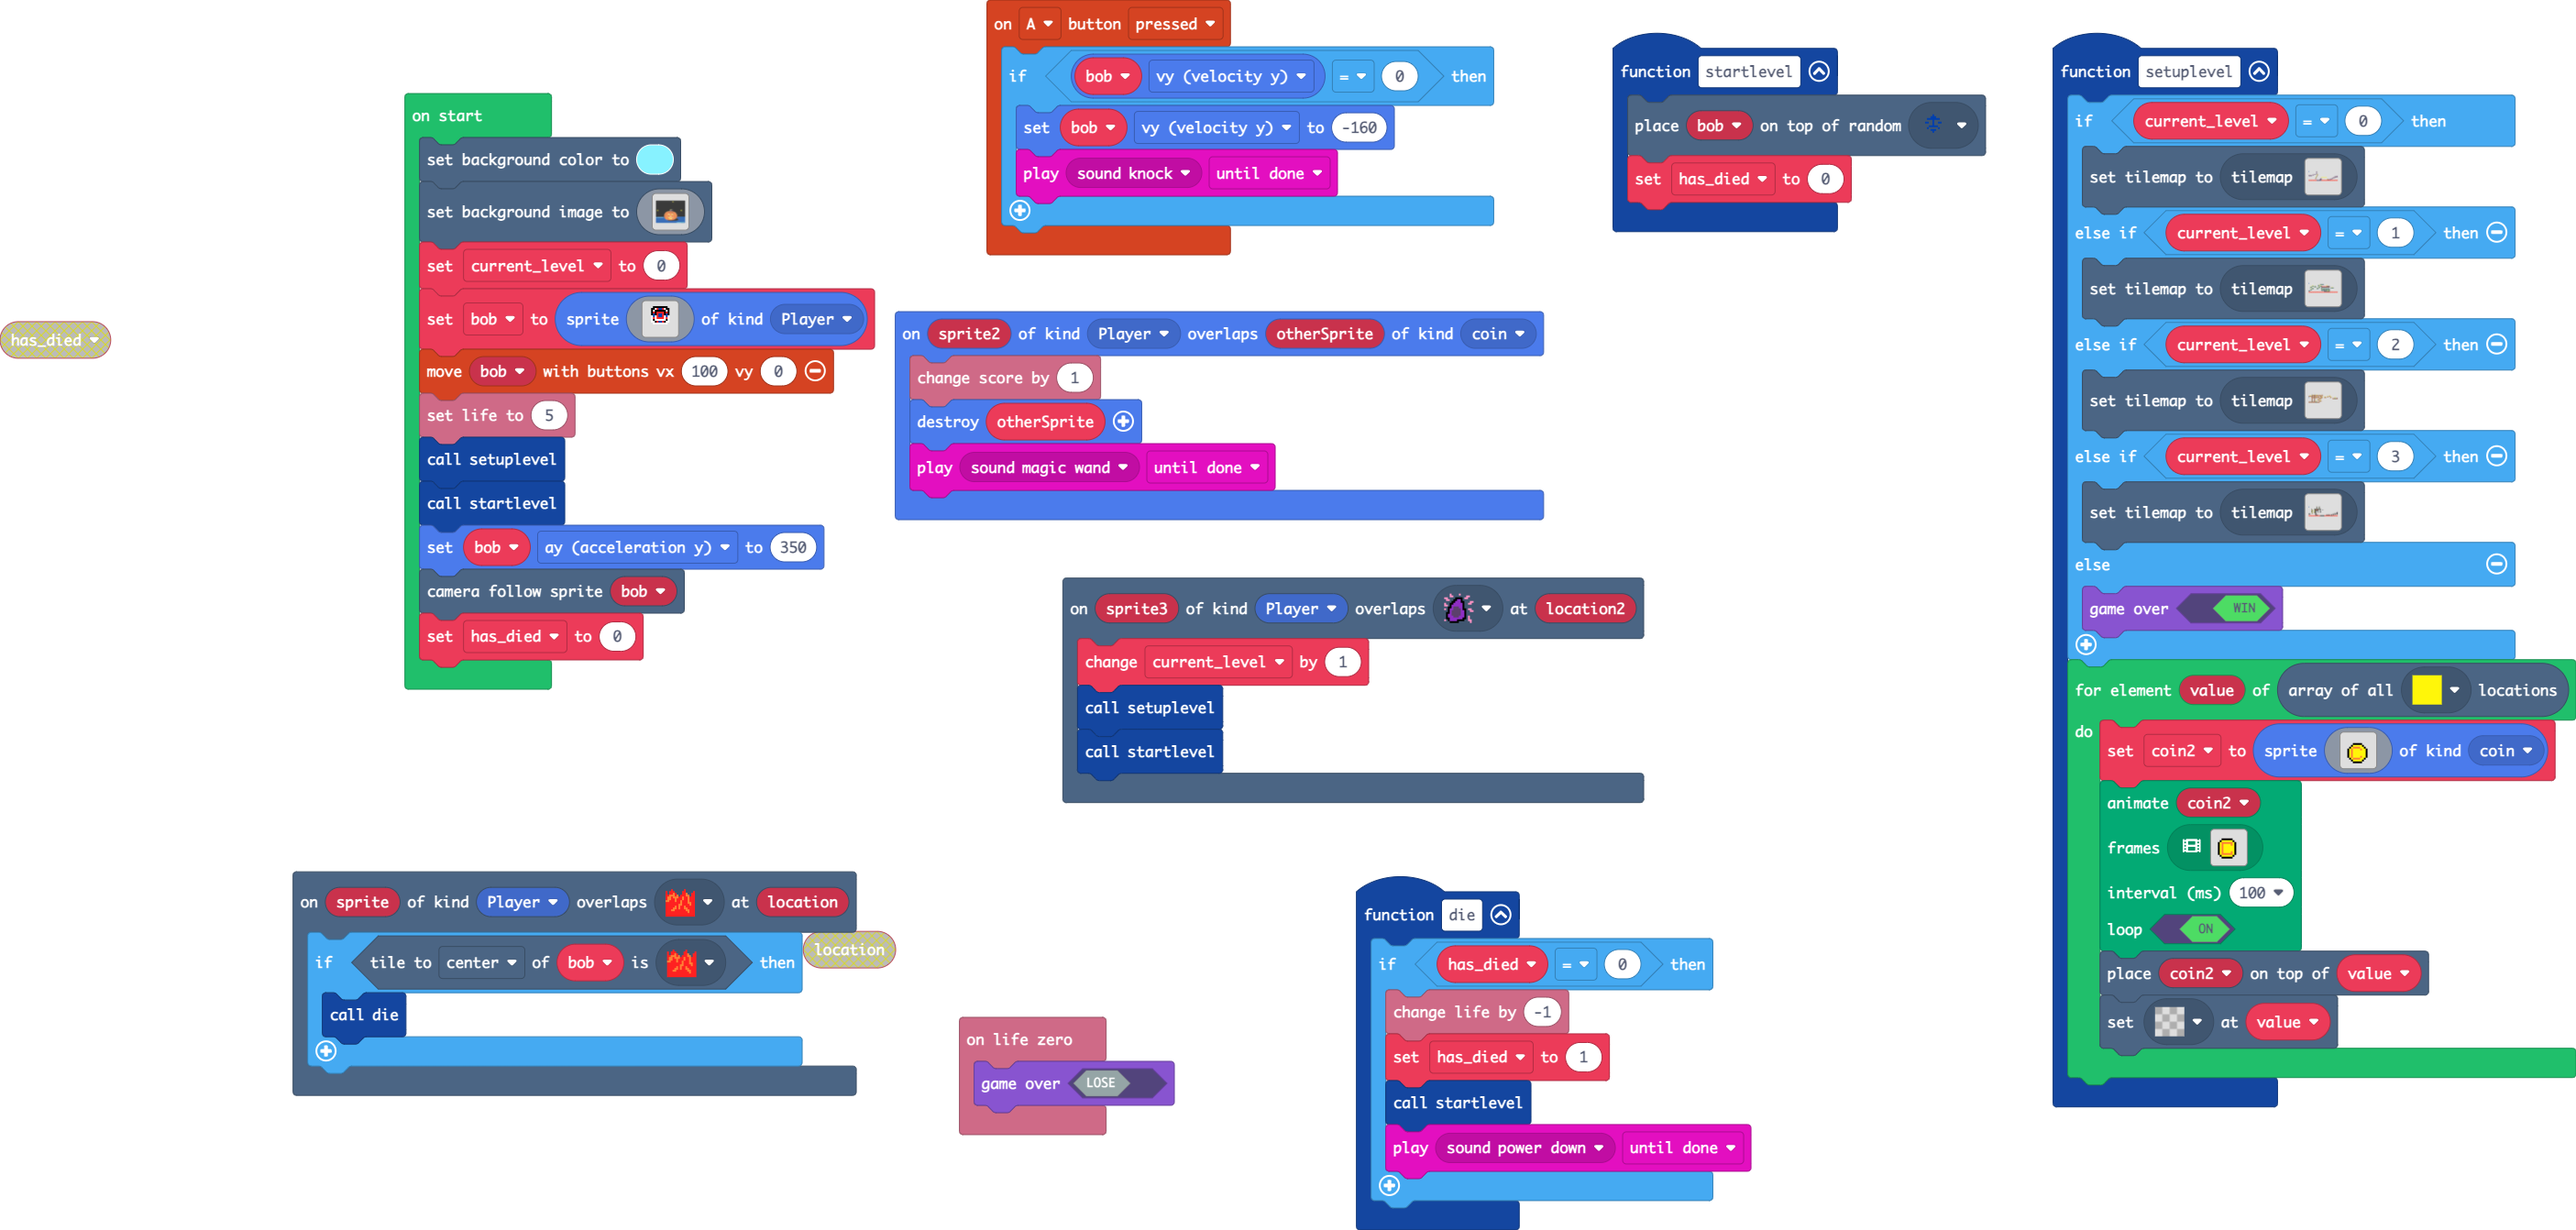
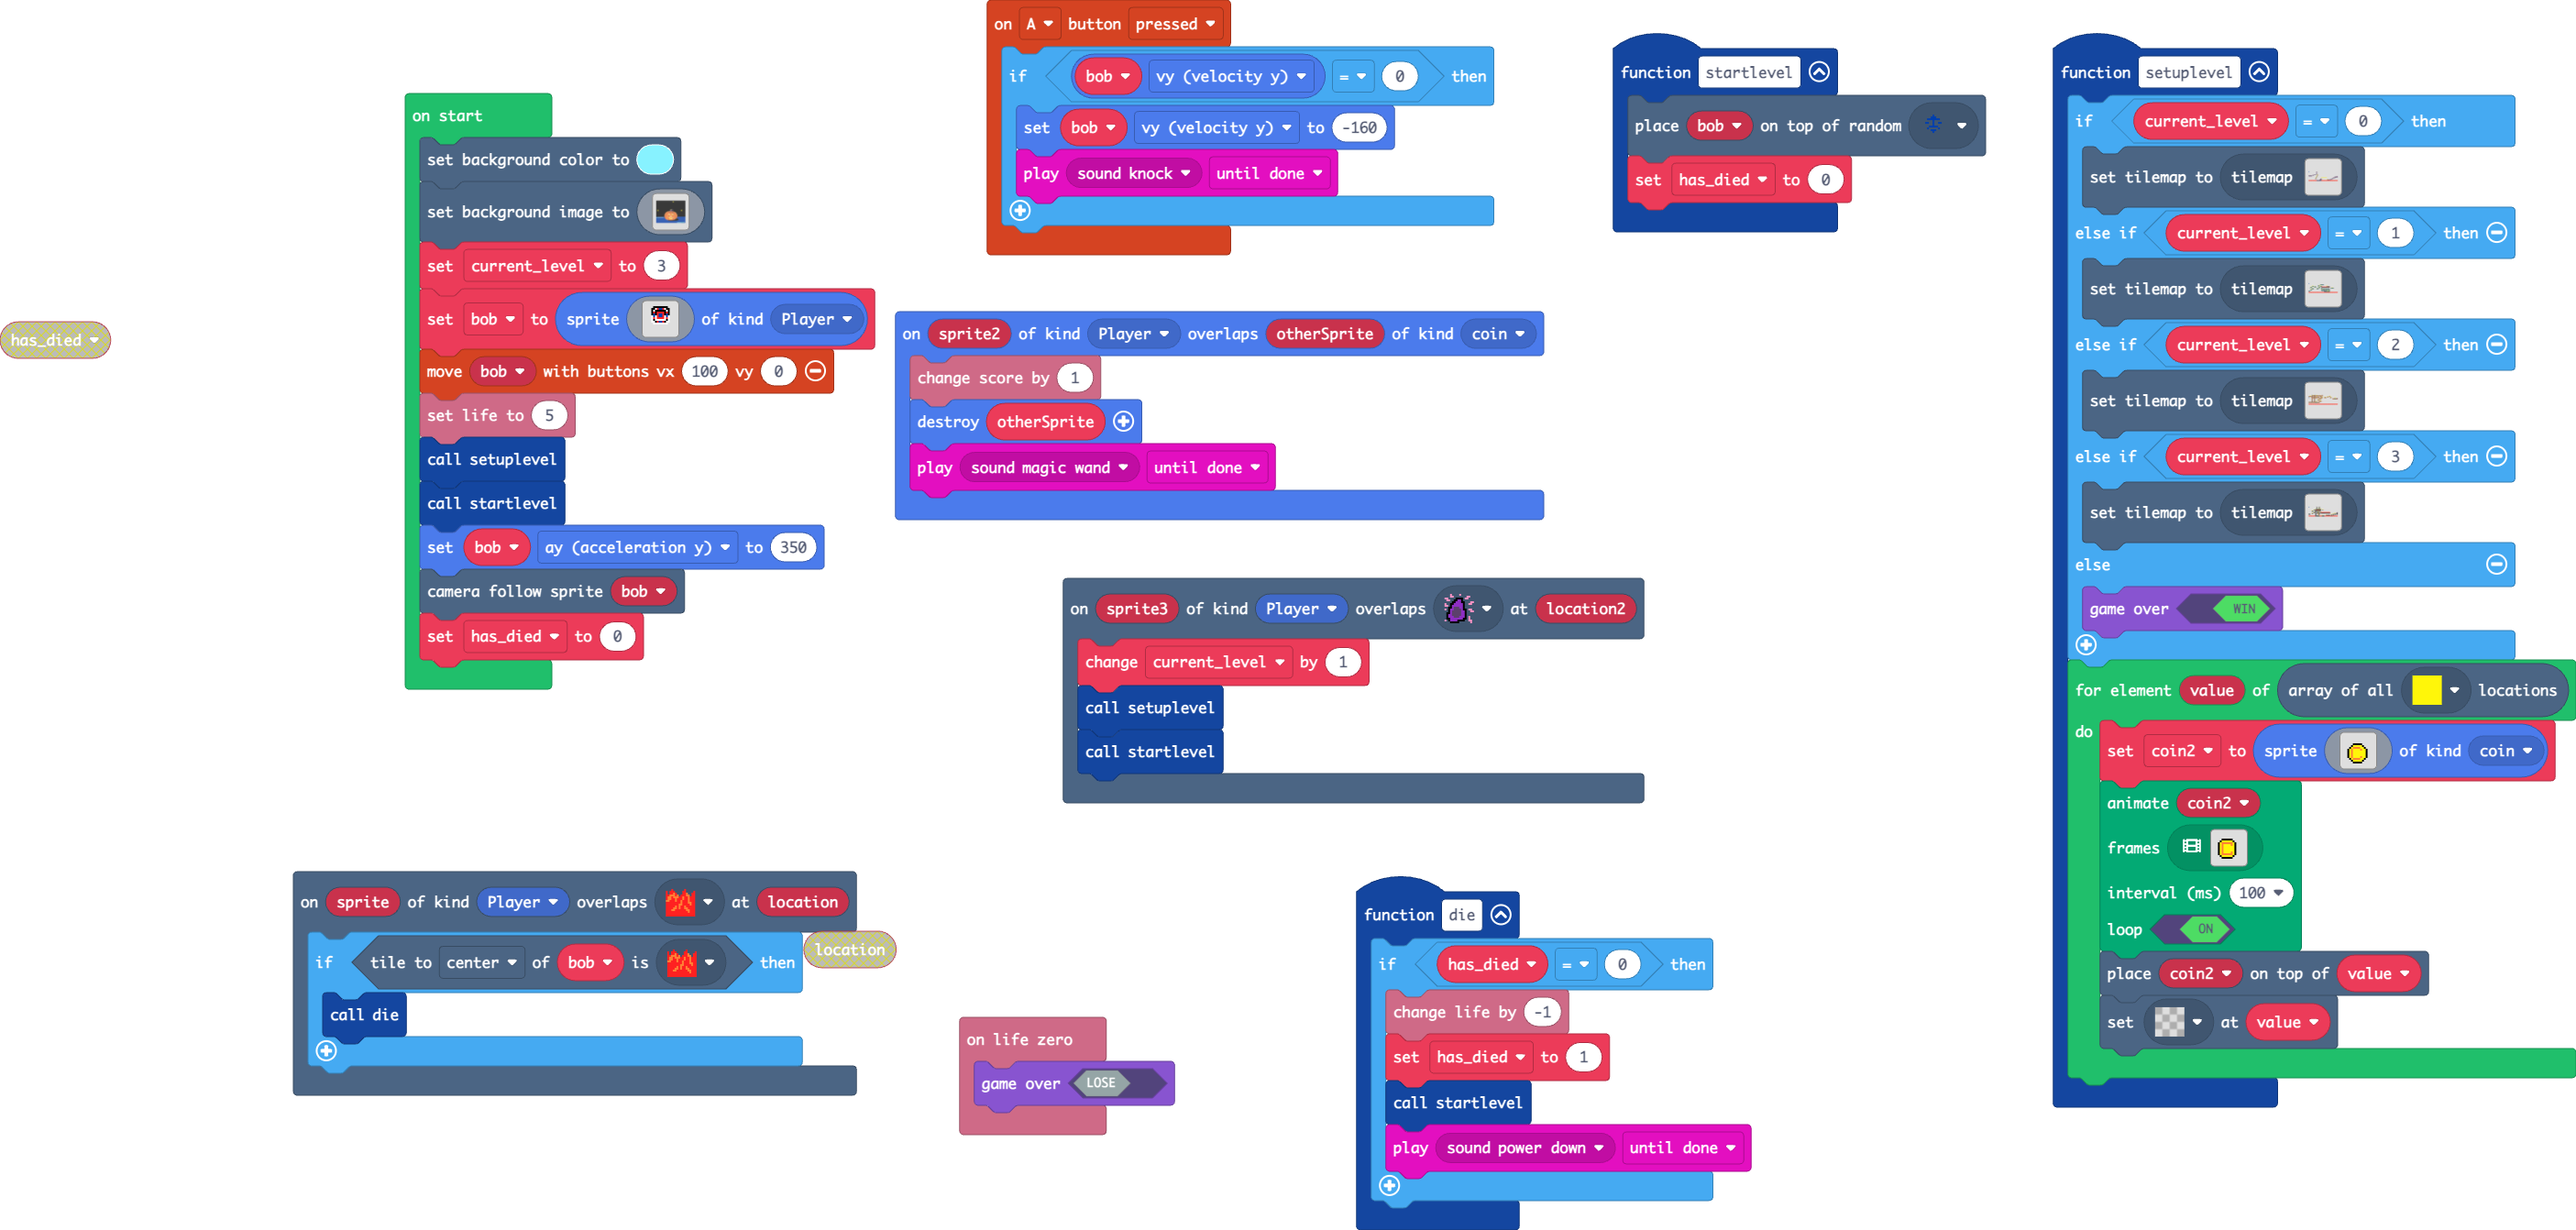
Update pxt.json, main.blocks, main.ts, tilemap.g.jres, tilemap.g.ts

diff --git a/tilemap.g.ts b/tilemap.g.ts
@@ -149,25 +149,6 @@ namespace myTiles {
 ...................222..........2222.2............
 ..............22222222............................
 `, [myTiles.transparency16,myTiles.tile3,myTiles.tile4,myTiles.tile5,myTiles.tile2,myTiles.tile9,myTiles.tile12], TileScale.Sixteen);
-            case "level7":
-            case "level7":return tiles.createTilemap(hex`320010000000000000000100050001000000050000000005000000040000000000000000000000000000000000000000000000000000000000050000040404040404040404040404040404040004000000000000000000000000050000000000000000000000000004040404040001000000040000000000000000000004000000000000000000000500000404000000000000000000000000000000000000040400000001000005000000000000000400050000000005000000040400000000050000000000000000000000030000000000040404040404040404040404040000040404000000040404000000000000000404000000000000050000000000000000000004000000040000000000000000000500000000000000000000000000000000000000000000000000000000020000000000000400000004000000000000000404040400000000000000000000000000000000000000040404010101040404000000000000040000000400000000000500000000000000000000000000000000000000000000000000000000000000000000000000000004000000040000000004040404000000000000000000000000000000000000000000000000000000000000000000000000000400000001000000000000000000050000000000000000000000000000000000000000000000000000000000000000000000010000000400000500000000040404040000000000000000000000000000000000000000000000000000000000000000000001000000040000000000000000000000000000000000000000000000000000000000000000000000000000000404040404040404040404040101010404040400000000000000000000000000000000000000000000000000000000000000000000000000000000000000000000000000000000000000000000000000000000000000000000000000000000000000000000000000000000000000000000000000000000000000000000000000000000000000000000000000000000000000000000000000000000000000000000000000000000000000000000000000000000000000000000000000000000000000000000000000`, img`
-.......................2..........................
-......2222222222222222.2..........................
-22222.....2..........2.............22.............
-.....22..............2..........22................
-......2222222222222..222...222.......22...........
-......2...2.......................................
-......2...2.......2222...................222...222
-......2...2.......................................
-......2...2....2222...............................
-......2...........................................
-..........2.......2222............................
-..........2.......................................
-222222222222...2222...............................
-..................................................
-..................................................
-..................................................
-`, [myTiles.transparency16,myTiles.tile1,myTiles.tile4,myTiles.tile9,myTiles.tile14,myTiles.tile5], TileScale.Sixteen);
             case "level9":
             case "level9":return tiles.createTilemap(hex`1000100000000000000000000000000000000000000000000000000000000000000000000000000000000000000000000000000000000000000000000000000000000000000000000000000000000000000000000000000000000000000000000000000000000000000000000000000000000000000000000000000000000000000000000000000000000000000000000000000000000000000000000000000000000000000000000000000000000000000000000000000000000000000000000000000000000000000000000000000000000000000000000000000000000000000000000000000000000000000000000000000000000000000000000000000000000000`, img`
 . . . . . . . . . . . . . . . . 
@@ -187,24 +168,43 @@ namespace myTiles {
 . . . . . . . . . . . . . . . . 
 . . . . . . . . . . . . . . . . 
 `, [myTiles.transparency16], TileScale.Sixteen);
+            case "level7":
+            case "level7":return tiles.createTilemap(hex`320010000000000000000100050001000000050000000005000000040000000000000000000000000000000000000000000000000000000000050000040404040404040404040404040404040004000000000000000000000000050000000000000000000000000004040404040001000000040000000000000000000004000000000000000000000500000404000000000000000000000000000000000000040400000001000005000000000000000400050000000005000000040400000000050000000000000000000000030000000000040404040404040404040404040000040404000000040404000000000000000404000000000000050000000000000000000004000000040000000000000000000500000000000000000000000000000000000000000000000000000000020000000000000400000004000000000000000404040400000000000000000000000000000000000000040404010101040404000000000000040000000400000000000500000000000000000000000000000000000000000000000000000000000000000000000000000004000000040000000004040404000000000000000000000000000000000000000000000000000000000000000000000000000400000001000000000000000000050000000000000000000000000000000000000000000000000000000000000000000000010000000400000500000000040404040000000000000000000000000000000000000000000000000000000000000000000001000000040000000000000000000000000000000000000000000000000000000000000000000000000000000404040404040404040404040101010404040400000000000000000000000000000000000000000000000000000000000000000000000000000000000000000000000000000000000000000000000000000000000000000000000000000000000000000000000000000000000000000000000000000000000000000000000000000000000000000000000000000000000000000000000606060606060606060606060606060606060606060606060606060606060606060606060606060606060606060606060606`, img`
+.......................2..........................
+......2222222222222222.2..........................
+22222.....2..........2.............22.............
+.....22..............2..........22................
+......2222222222222..222...222.......22...........
+......2...2.......................................
+......2...2.......2222...................222...222
+......2...2.......................................
+......2...2....2222...............................
+......2...........................................
+..........2.......2222............................
+..........2.......................................
+222222222222...2222...............................
+..................................................
+..................................................
+..................................................
+`, [myTiles.transparency16,myTiles.tile1,myTiles.tile4,myTiles.tile9,myTiles.tile14,myTiles.tile5,myTiles.tile3], TileScale.Sixteen);
             case "level8":
-            case "level8":return tiles.createTilemap(hex`320010000500000000000000000000000000010000000100000000000000000000000000000000000000000000000000000000000000000000000000000000000000000001000000010000000000000000000000000000000000000000000000000000000000000000000000000000000000000000000100000001000000000000000000000000000000000000000000000000000000000000000000000000000000000000000000010000000100000000000000000000000000000000000000000000000000000000000000000000000006000000000606060101010601010106000000000000000000000000000000000000000000000000000000000000000000000006000000040606020202060000000600000006000000000000000000000000000000000000000000000000000000000000060400000006000606060606000000000000000000000000000000000000000000000000000000000000000000000000000000060000000406060000000000000006000000000000000000000000000000000000000000000000000000000000000000000604000000060006000000060000000600000000000000000000000000000000000000000000000000000000000000000000000600000004060600000006000000060000000000000000000000000000000000000000000000000000000003000000000000040000000600060000000000000000000000000000000000000000000000000000000000000000000000060600000000000006000000000006000000000000000000000000000000000000000000000000000000000000000006000006060606060000000000000000000600000000000000000000000000000000000000000000000000000000000600000600000606000000000000000000000000060000000000000000000000000000000000000000000000000000060000060000060000000000000000000000000000000006060606000000000000000000000000000006060606060606000006000006000000000000000202020202020202020202020202020202020202060606060606060202020202020202020202020602020202020202020202`, img`
+            case "level8":return tiles.createTilemap(hex`320010000500000000000000000000000000010000000100000000000000000000000000000000000000000000000000000000000000000000000000000000000000000001000000010000000000000000000000000000000000000000000000000000000000000000000000000000000000000000000100000001000000000000000000000000000000000000000000000000000000000000000000000000000000000000000000010004000100040000000000000000000000000000000000000000000000000000000000000000000000000000000400060101010601010106000000040000000000000000000000000000000000000000000000000000000000000000000006060006020202060202020600000006000000000000000000000000000000000000000000000000000000000000000400000000000606060606060606060000000000000000000000000000000000000000000000000000000000000000000000060600000006060000000400000000000000000000000000000000000000000000000000000000000000000000000000000000000000040006000006060002000400000000000000000000000000000000000000000000000000000000000000000000000000000606000600000604000600060202020202020202020202020202020200000000000000000000000003000000000000040000000000060000060600060000060606060606060606060606060606060000000000000000040000060600000000000006060000000006000006040006000000000000000000000000000000000000000000000004000006000006060606060000000000000000000600000000020600000000000000000000000000000000000000000400000600000600000606000000000000000000000000060000000006000000000000000000000000040000000000000000060000060000060000000000000000000000000000000006000000000004000000000400000000000006060606060606000006000006000000000000000202020202020202020202020606060606060602020202060606060202020202020202020202020602020202020202020202`, img`
 ..................................................
 ..................................................
 ..................................................
 ..................................................
-.....2....222...2...2.............................
-......2....22...2...2...2.........................
-.....2....2.22222.................................
-......2....22.......2.............................
-.....2....2.2...2...2.............................
-......2....22...2...2.............................
-..........2.2...................................22
-......2.....2................................2..22
-222.........2.............................2..2..22
-............2..........................2..2..2....
-............2222..............2222222..2..2.......
-....................2222222............2..........
+............2...2...2.............................
+.........22.2...2...2...2.........................
+............222222222.............................
+......22...22.....................................
+............2..22.................................
+.........22.2..2..2.2.............................
+............2..22.2..2222222222222222...........22
+......22....2..2..2..........................2..22
+222.........2.....2.......................2..2..22
+............2....2.....................2..2..2....
+............2.................2222222..2..2.......
+............2222222....2222............2..........
 `, [myTiles.transparency16,myTiles.tile1,myTiles.tile3,myTiles.tile4,myTiles.tile5,myTiles.tile9,myTiles.tile15], TileScale.Sixteen);
         }
         return null;

diff --git a/main.ts b/main.ts
@@ -375,7 +375,7 @@ scene.setBackgroundImage(img`
     8888888888888888888888888888888888888888888888888888888888888888888888888888888888888888888888888888888888888888889999999999999999999999966666666666666688888888
     8888888888888888888888888888888888888888888888888888888888888888888888888888888888888888888888888888888888888888888888888888888888888888888888888888888888888888
     `)
-current_level = 0
+current_level = 3
 bob = sprites.create(assets.image`design1`, SpriteKind.Player)
 controller.moveSprite(bob, 100, 0)
 info.setLife(5)
